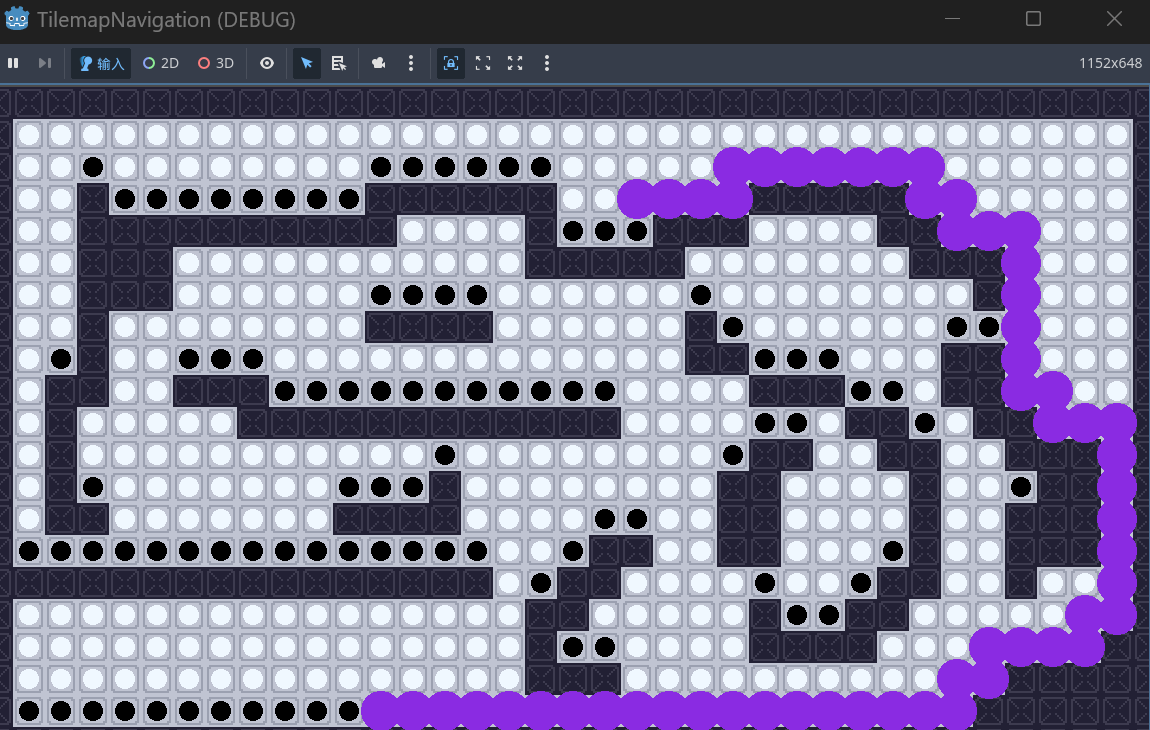
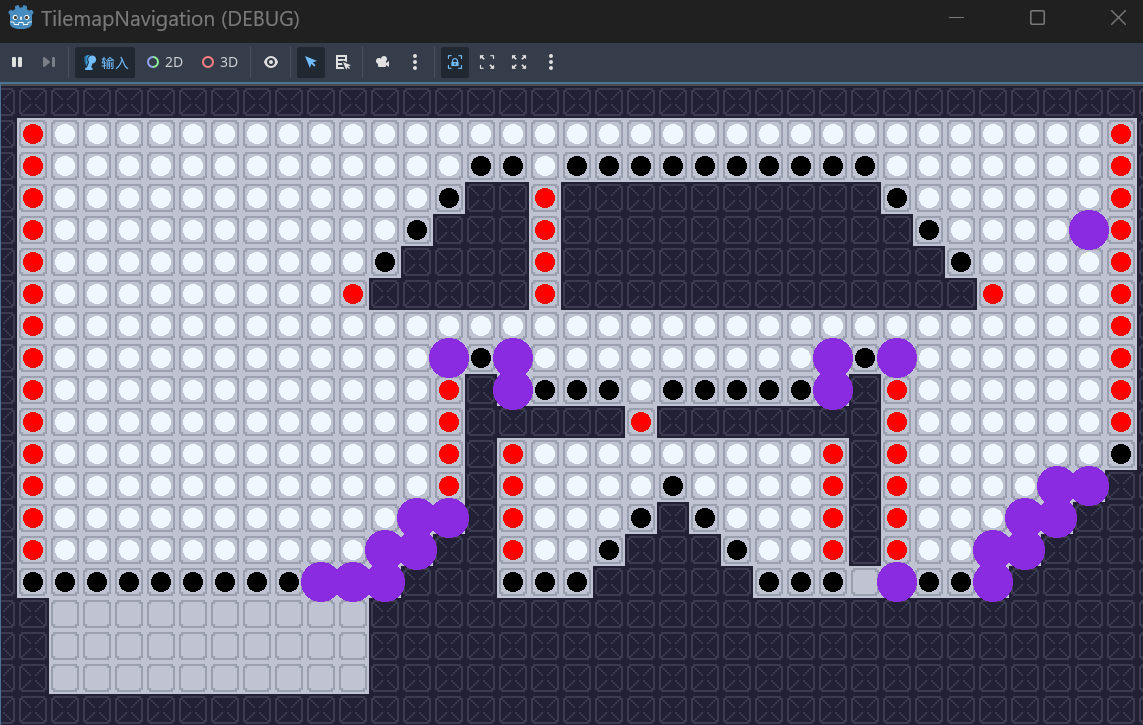
PVZR寻路：文档更新

diff --git a/README.md b/README.md
@@ -1,7 +1,8 @@
 # MyGodot2DNavigation
 
 各种gd实现的2D寻路，特别是2D横板寻路。
-- 不考虑寻路实体是否可达，可以参考 网格横板寻路 和 map-path-finder这两个demo
+- 不考虑寻路实体是否可达，可以参考 网格横板寻路 和 PVZR_PathFinderDemo 这两个demo
+    - PVZR_PathFinderDemo 主要为了PVZR复刻实现，一些机制不具有普遍性
 - 考虑寻路实体是否可达，可以参考 基于B站搬运视频的横板寻路 
 - 实现了一个路径显示单例
 - 附加一个平面网格寻路demo，参考[码客二十二](https://space.bilibili.com/204475293)的教程实现，项目中部分素材来自其demo。
@@ -16,6 +17,7 @@
 - BUG记录：
 	- 寻找下坠点时只考虑了一边（已修复）
 	- 适配tilemaplayer后会出现错误跳跃的bug(临时修复)
+        - 因为这样导致 distance 恢复默认值5了
 		- 如果distance设置为5，会导致玩家在测试地图右侧部分移动失败
 		- 目前的修复方法是设置为4，暂时无好的修复方法。
 
@@ -47,9 +49,15 @@
 ## PVZR_PathFinderDemo
 
 - 基于AstarGrid2D的横板寻路（简化版）
-	- 专门用于我的PVZR项目
-	- 这里只分为不可达点、平台点和空中点。优先平台点。
-	- 目前没有移动功能，只有一个路径显示功能（每隔1s更新一次）
+	- 专门用于我的PVZR项目，部分设计是为了实现原版的功能，请谨慎参考
+        - 比如“水线”机制
+	- 这里分为不可达点、平台点、墙边点和空中点
+        - 优先级：平台、墙边、空中
+        - 目的：让实体更加偏向于建筑内移动
+	- 目前没有移动功能，只有一个路径显示功能（每隔1s更新一次），起点在map.gd中硬编码定义，用于测试。
+    - 实现了路径过滤。这里的过滤方法特别考虑了PVZR游戏实际。
+    - 实现了起点终点的映射，以保证寻路在正确的位置开始与结束。
+    - 实现了一个扩展的寻路类，确保横向移动优先
 
 ![alt text](PVZR_PathFinderDemo.png)
 
@@ -58,9 +66,10 @@
 - 路径显示单例
 	- 基本使用方法：
 		- 由节点请求该单例生成路径，向单例传递绑定的节点、路径和路径显示的属性（颜色、半径）
-		- 绑定的节点在将要离开场景树时会清除与之相关的路径显示。
+            - 可以修改参数类型，设计自己的路径绘制节点
+		- 绑定的节点在将要离开场景树时，会清除与之相关的路径显示。
 		- 注意，路径的显示与清除是基于请求时绑定的node的，最好不要同一个node绑定多个路径，可能造成非预期的行为。
-	- 使用示例：参考 map-path-finder 和 网格横板寻路 中的demo
+	- 使用示例：参考 PVZR_PathFinderDemo 和 网格横板寻路 中的demo
 	- 移植：需要将整个文件夹都移动到新项目中，同时添加自动加载
 	- 测试：缺少多个实体同时显示路径、清除路径显示等功能的测试
 
